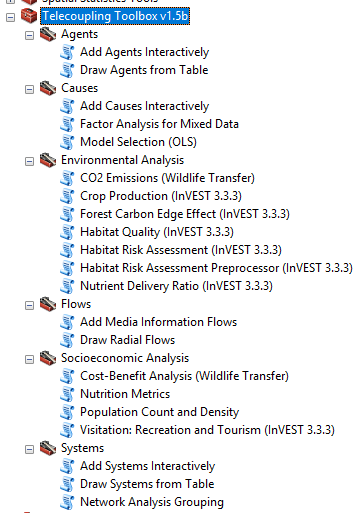
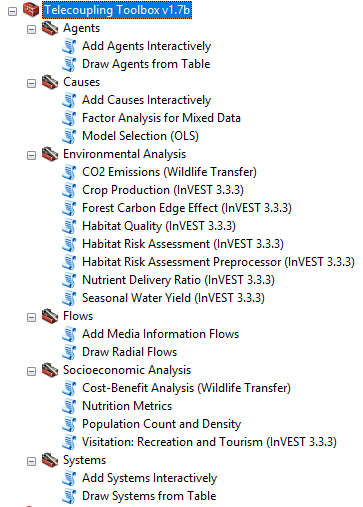
update README to v1.7b

Changed region(s): [[0.0, 0.0, 1.0, 1.0]]

diff --git a/arcgis-toolbox/README.md b/arcgis-toolbox/README.md
@@ -1,8 +1,16 @@
-Telecoupling Toolbox: ArcGIS Toolbox v1.5b
+Telecoupling Toolbox: ArcGIS Toolbox v1.7b
 ========================
 
 ## Major Releases
 ------------------
+* Version 1.7 (_beta_)
+
+This release adds a new tool within the Environmental Analysis toolset, called *Seasonal Water Yield*, customized from InVEST (3.3.3). This tool can be used to estimate the contribution of a pixel in a watershed to baseflow, quickflow, and local recharge.
+
+* Version 1.6 (_beta_)
+
+This release adds a new tool within the Environmental Analysis toolset, called *Fisheries Harvest*, customized from InVEST (3.3.3). This tool can be used to quantify catch volume and economic value.
+
 * Version 1.5 (_beta_)
 
 This release adds a new tool within the Systems toolset, called Network Analysis Grouping, written in R and connected to ArcGIS using the R-Bridge from ESRI. This tool uses network information (i.e. nodes, links, and directions) of units (e.g. countries, areas, administrative units) within a telecoupling system and aggregates them into groups (clusters) based on their network connectivity.
@@ -130,7 +138,7 @@ Follow these steps to add the Toolbox to your ArcMap document:
 
 1. Open ArcMap
 2. Right-click on the ArcToolbox folder and select "Add Toolbox"
-3. Browse to the unzipped ArcGIS Toolbox folder and select `Telecoupling Toolbox v1.3b.tbx`
+3. Browse to the unzipped ArcGIS Toolbox folder and select `Telecoupling Toolbox v1.7b.tbx`
 
 Inside the Telecoupling Toolbox you should see 5 toolsets (*__agents__*, *__causes__*, *__environmental analysis__*, *__socioeconomic analysis__*, *__flows__*, *__systems__*) and a number of python tool scripts inside each one of them. 
 
@@ -141,7 +149,7 @@ To learn more about what each tool script does and what parameters it takes, ple
 ![Figure 6](Figs/ex6.png)
 ![Figure 7](Figs/ex7.png)
 
-That's it! The Telecoupling Toolbox is now added to the ArcToolbox list and you can start using it with the set of [sample data](https://s3.amazonaws.com/telecoupling-toolbox-sample-data/SampleData_ArcGIS_v1.3b.zip)
+That's it! The Telecoupling Toolbox is now added to the ArcToolbox list and you can start using it with the set of [sample data](https://s3.amazonaws.com/telecoupling-toolbox-sample-data/SampleData_ArcGIS_v1.7b.zip)
 After unzipping the sample data folder, you will see a mix of GIS (vector, raster) data and tables (.csv) needed as input parameters by the script tools.
 
 ## Credits and Contacts

diff --git a/README.md b/README.md
@@ -22,7 +22,7 @@ The innovative, free and open-source (see [LICENSE](LICENSE) for details) toolbo
 
 <a href="https://github.com/MSU-CSIS/telecoupling-toolbox/tree/master/arcgis-toolbox" target="_blank"><img src="/img/ArcGIS_Toolbox_icon.png" alt="ArcGIS Toolbox Icon" title="ArcGIS Toolbox Icon" height="200"></a>
 
-The ArcGIS Toolbox is a large collection of mapping and analysis tools for use within ESRI's ArcGIS Desktop (version 10.3.1 or later) to systematically study telecoupling. Test the current version of the ArcGIS Toolbox by using your own data or by downloading our [sample data](https://s3.amazonaws.com/telecoupling-toolbox-sample-data/SampleData_ArcGIS_v1.5b.zip). Look inside the [ArcGIS Toolbox](./arcgis-toolbox) project folder for code, images, documentation, and detailed instructions on installation and use.
+The ArcGIS Toolbox is a large collection of mapping and analysis tools for use within ESRI's ArcGIS Desktop (version 10.3.1 or later) to systematically study telecoupling. Test the current version of the ArcGIS Toolbox by using your own data or by downloading our [sample data](https://s3.amazonaws.com/telecoupling-toolbox-sample-data/SampleData_ArcGIS_v1.7b.zip). Look inside the [ArcGIS Toolbox](./arcgis-toolbox) project folder for code, images, documentation, and detailed instructions on installation and use.
 
 ## GeoApp
 
@@ -37,7 +37,7 @@ The GeoApp offers a dynamic, interactive, online geo-enabled platform along with
 
 <img src="img/beige-folder-downloads_arcgis.png" alt="Sample Data ArcGIS Icon" title="Sample Data ArcGIS Icon" height="200" >
 
-[Download](https://s3.amazonaws.com/telecoupling-toolbox-sample-data/SampleData_ArcGIS_v1.5b.zip) and unzip our sample data folder for use with both our ArcGIS Toolbox and GeoApp. This data repository contains all the tables and spatial data necessary to run the set of telecoupling mapping and analysis tools we developed. For further information on any of the dataset provided, please feel free to contact us.
+[Download](https://s3.amazonaws.com/telecoupling-toolbox-sample-data/SampleData_ArcGIS_v1.7b.zip) and unzip our sample data folder for use with both our ArcGIS Toolbox and GeoApp. This data repository contains all the tables and spatial data necessary to run the set of telecoupling mapping and analysis tools we developed. For further information on any of the dataset provided, please feel free to contact us.
 
 ## GeoApp Data
 
